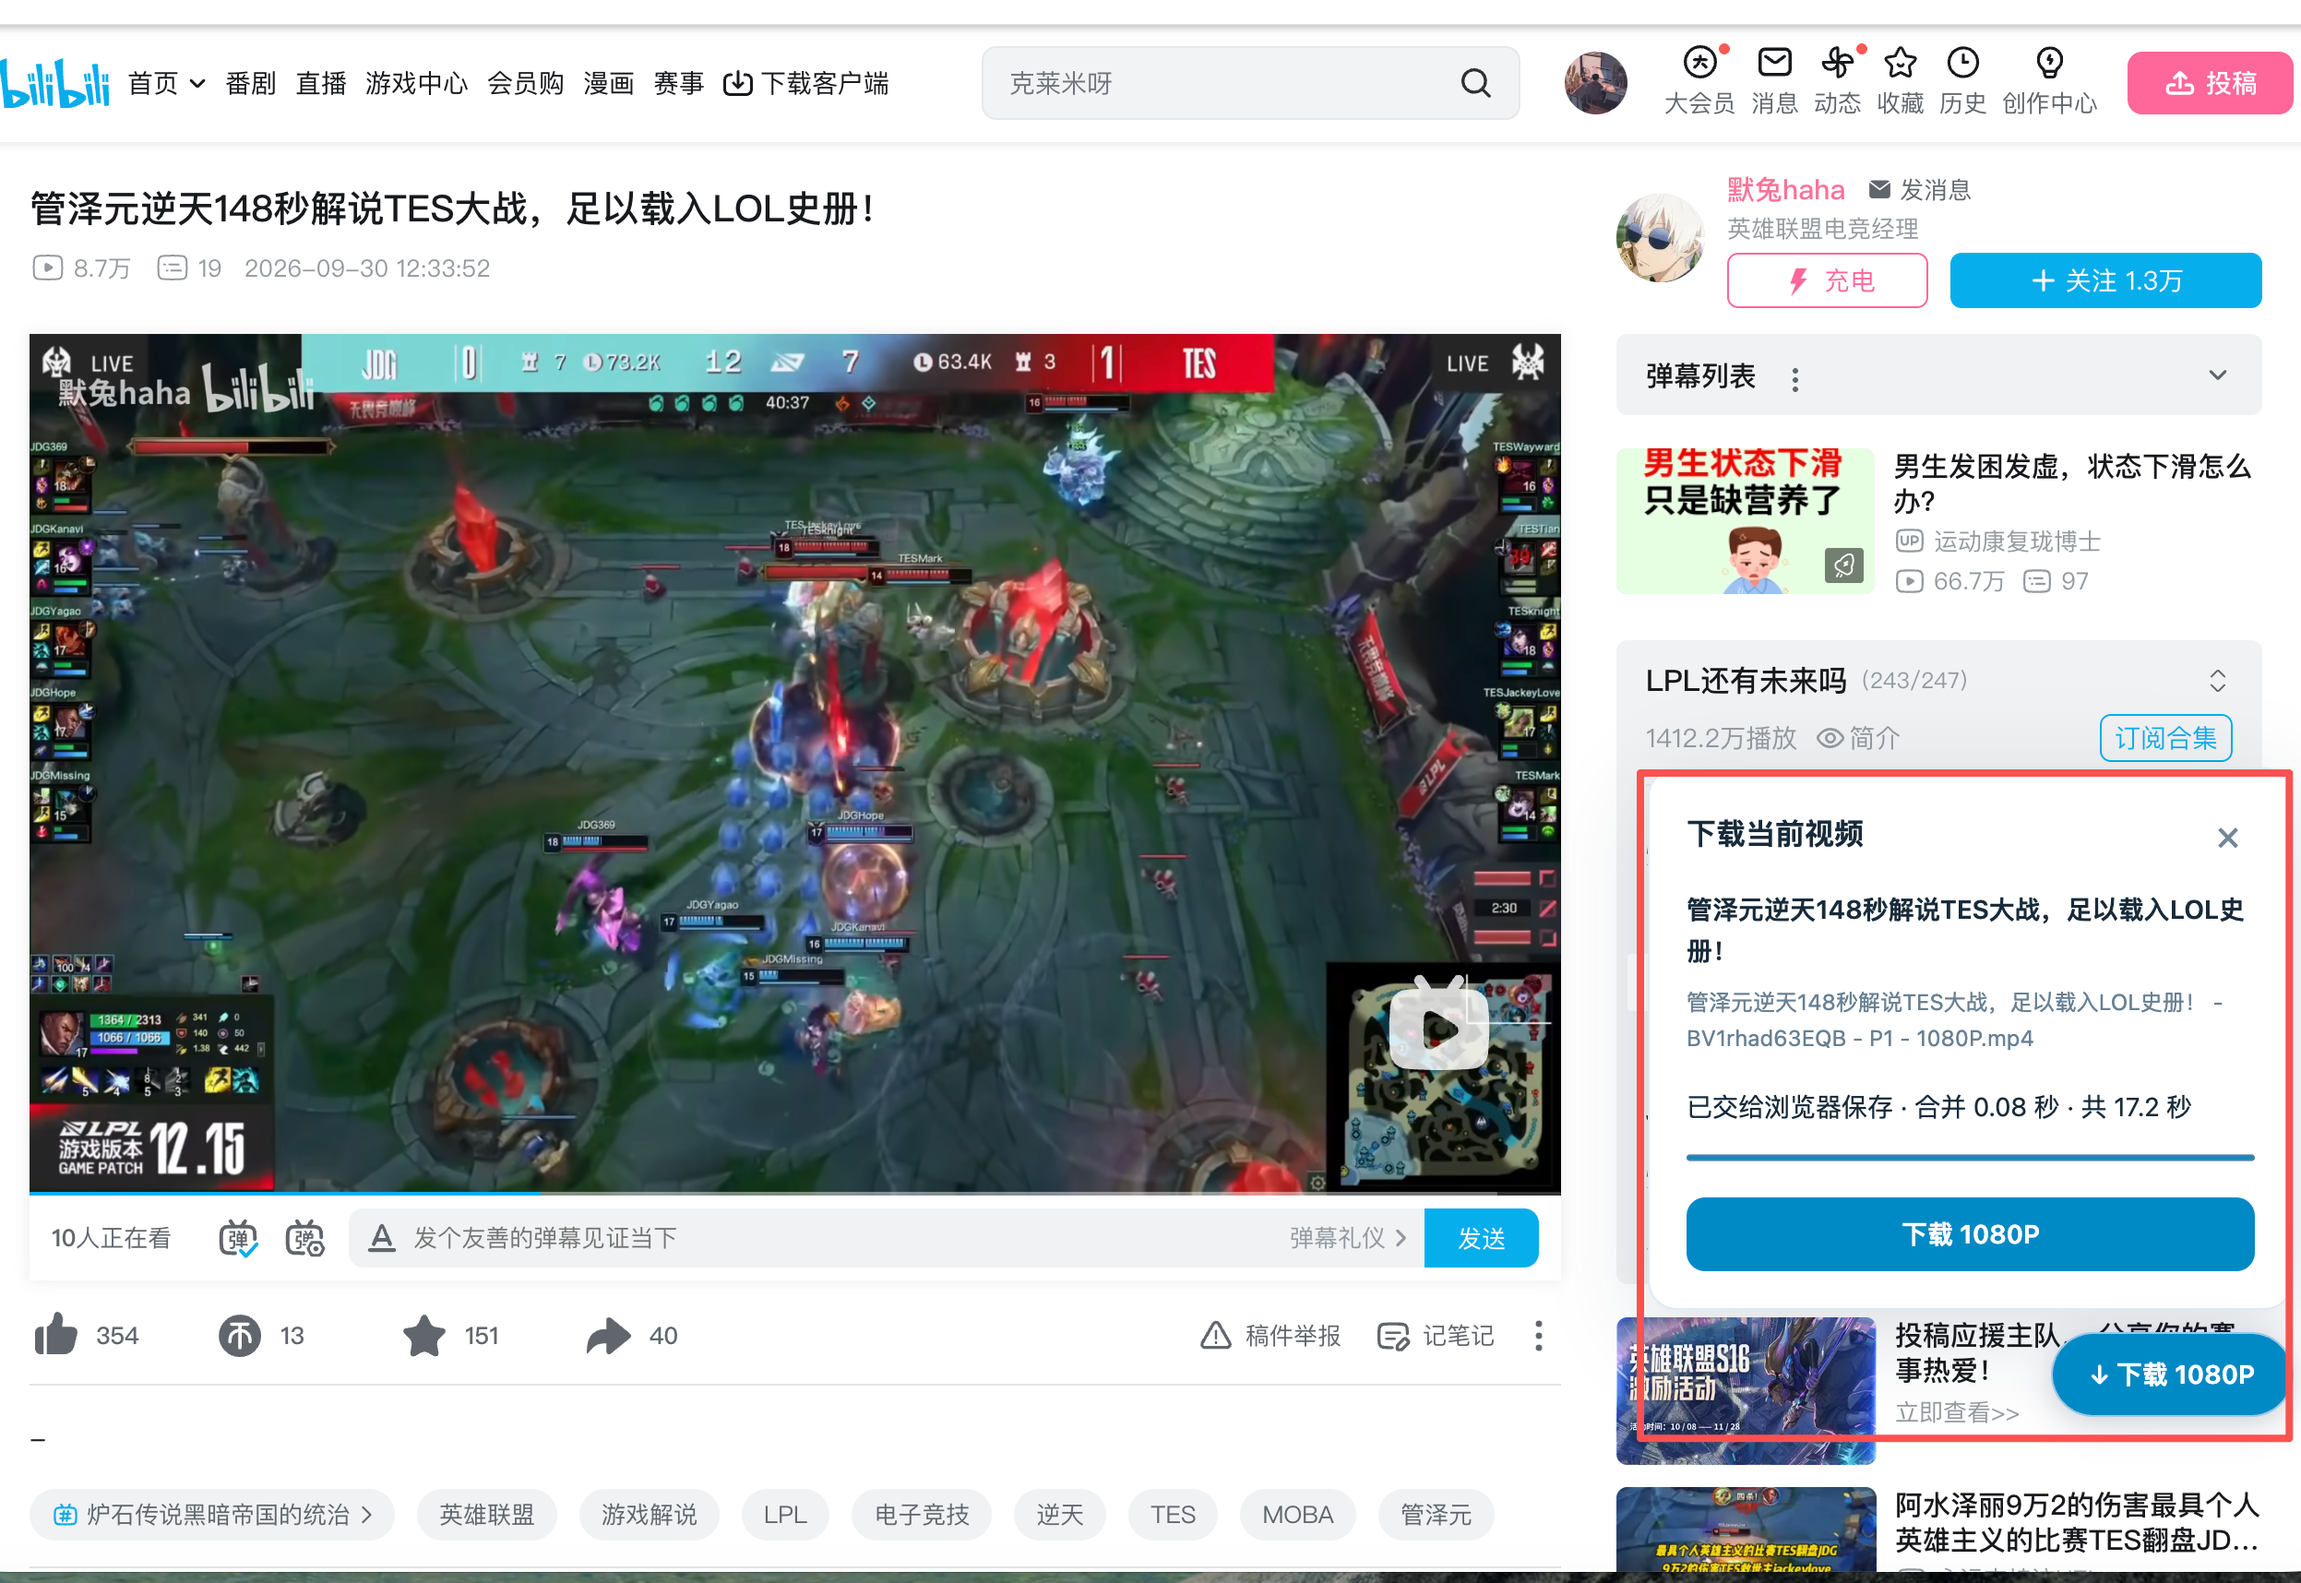
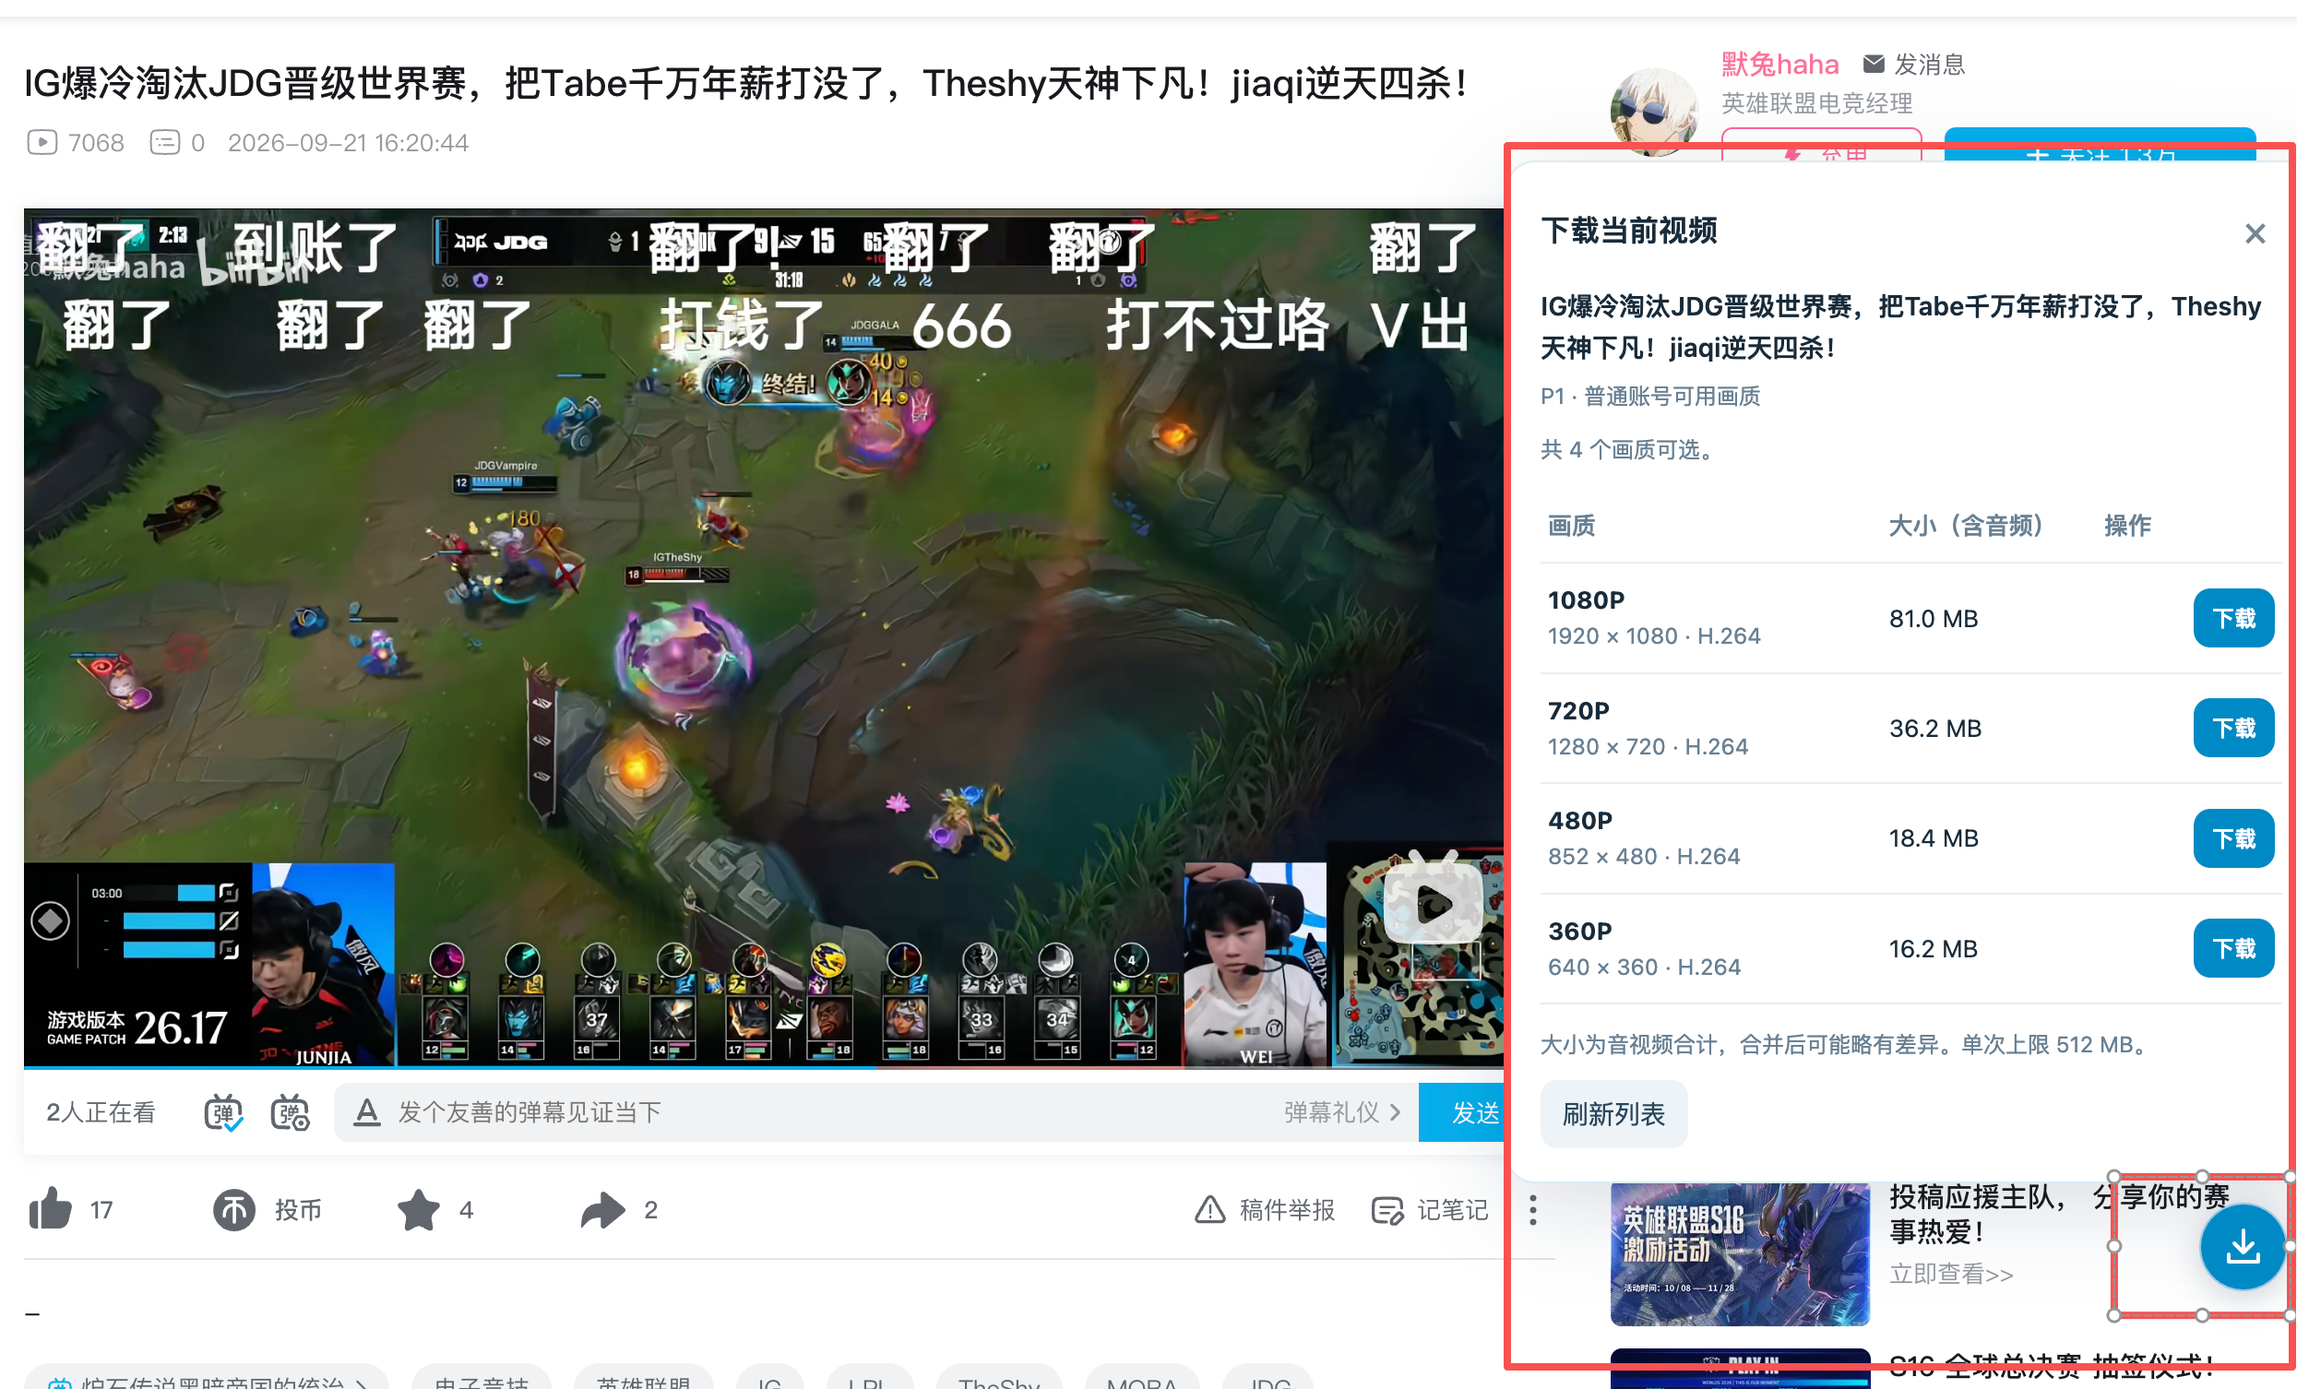
chore(release): 📝 补全脚本信息并更新示例与下载建议
补充作者、项目主页、问题反馈地址及站点图标，版本更新为0.2.1。
使用新版画质列表截图替换旧示例，并同步README中的界面说明。
增加长视频下载建议，推荐使用功能更丰富的Bili23-Downloader客户端。

diff --git a/bili-1080p-downloader.user.js b/bili-1080p-downloader.user.js
@@ -1,9 +1,13 @@
 // ==UserScript==
 // @name         哔哩哔哩 1080P 下载
 // @namespace    bili-1080p-downloader
-// @version      0.2.0
+// @version      0.2.1
 // @description  拖动下载图标，展开当前分 P 的可用画质和大小，选择后无损下载带声音的 MP4。
+// @author       like-ycy
 // @license      MIT
+// @homepageURL  https://github.com/like-ycy/bili-download-userscript
+// @supportURL   https://github.com/like-ycy/bili-download-userscript/issues
+// @icon         https://www.bilibili.com/favicon.ico
 // @match        https://www.bilibili.com/*
 // @run-at       document-idle
 // @noframes

diff --git a/README.md b/README.md
@@ -1,6 +1,6 @@
 # 哔哩哔哩视频画质选择与下载
 
-[![Version](https://img.shields.io/badge/version-0.2.0-00AEEC)](bili-1080p-downloader.user.js) [![License: MIT](https://img.shields.io/badge/License-MIT-blue.svg)](LICENSE)
+[![Version](https://img.shields.io/badge/version-0.2.1-00AEEC)](bili-1080p-downloader.user.js) [![License: MIT](https://img.shields.io/badge/License-MIT-blue.svg)](LICENSE)
 
 在 B 站普通视频页面点击下载图标，查看当前分 P 可用的 **1080P、720P、480P、360P 等画质和大小**，选择后保存为带声音的 MP4。使用浏览器已有登录状态，只展示普通账号实际可用的画质。
 
@@ -8,13 +8,15 @@
 
 适用于桌面 **Chrome + Tampermonkey（油猴）**。无需安装 FFmpeg、Python 或运行本地服务。
 
+**不建议使用本脚本下载时长较长的视频。** 浏览器需要暂存音视频及合并后的文件，长视频容易占用较多内存。如需下载长视频，推荐使用更专业、功能更丰富的客户端软件 [Bili23-Downloader](https://github.com/ScottSloan/Bili23-Downloader)。
+
 源码仓库：[like-ycy/bili-download-userscript](https://github.com/like-ycy/bili-download-userscript)。问题反馈请提交 [Issue](https://github.com/like-ycy/bili-download-userscript/issues)。
 
 ## 效果示例
 
-![B 站视频页面右下方的 1080P 下载按钮及下载完成面板，红框标出脚本界面](assets/download-example.png)
+![可拖动的圆形下载图标及画质选择面板，展示 1080P、720P、480P、360P 的分辨率、大小和下载按钮](assets/download-example.png)
 
-上图保留了 0.1.0 的下载完成示例，红框用于标注脚本界面。**0.2.0 改为圆形下载图标和画质列表，点击图标只展开列表，选择某一画质后才下载。**
+点击圆形下载图标展开画质列表，每一行展示实际分辨率、编码、含音频的大小和下载按钮。选择画质后开始下载；再次点击图标收起面板，拖动图标时面板跟随移动。截图中的红框用于标注脚本界面。
 
 ## 安装
 
